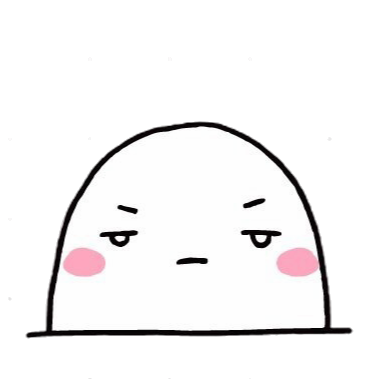
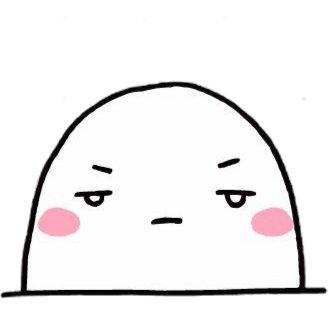
cleaned up code

Changed region(s): [[0.0, 0.2432, 1.0, 0.9119], [0.4559, 0.6383, 0.5775, 0.6991]]

diff --git a/Assets/Runtime/CSharp/EmotionDetector.cs b/Assets/Runtime/CSharp/EmotionDetector.cs
@@ -3,7 +3,8 @@ using System.Collections.Generic;
 
 public class EmotionDetector : MonoBehaviour
 {
-    public UdpReceiver receiver;
+    [SerializeField]
+    private UdpReceiver receiver;
     public string currentEmotion = "neutral";
 
     void Update()
@@ -11,17 +12,15 @@ public class EmotionDetector : MonoBehaviour
         var b = receiver.blendshapes;
         if (b.Count == 0) return;
 
-        // Werte holen (mit Fallback)
-        float Get(string key) => b.ContainsKey(key) ? b[key] : 0f;
+        float smile = BlendshapeUtils.Get(b, "mouthSmileLeft") + BlendshapeUtils.Get(b, "mouthSmileRight");
+        float frown = BlendshapeUtils.Get(b, "mouthFrownLeft") + BlendshapeUtils.Get(b, "mouthFrownRight");
+        float browDown = BlendshapeUtils.Get(b, "browDownLeft") + BlendshapeUtils.Get(b, "browDownRight");
+        float sneer = BlendshapeUtils.Get(b, "noseSneerLeft") + BlendshapeUtils.Get(b, "noseSneerRight");
+        float jaw = BlendshapeUtils.Get(b, "jawOpen");
+        float eyeWide = BlendshapeUtils.Get(b, "eyeWideLeft") + BlendshapeUtils.Get(b, "eyeWideRight");
+        float browInner = BlendshapeUtils.Get(b, "browInnerUp");
+        float stretch = BlendshapeUtils.Get(b, "mouthStretchLeft") + BlendshapeUtils.Get(b, "mouthStretchRight");
 
-        float smile = Get("mouthSmileLeft") + Get("mouthSmileRight");
-        float frown = Get("mouthFrownLeft") + Get("mouthFrownRight");
-        float browDown = Get("browDownLeft") + Get("browDownRight");
-        float sneer = Get("noseSneerLeft") + Get("noseSneerRight");
-        float jaw = Get("jawOpen");
-        float eyeWide = Get("eyeWideLeft") + Get("eyeWideRight");
-        float browInner = Get("browInnerUp");
-        float stretch = Get("mouthStretchLeft") + Get("mouthStretchRight");
 
         // HAPPY
         if (smile > 0.55f && frown < 0.25f)

diff --git a/Assets/Runtime/CSharp/BlinkDetector.cs b/Assets/Runtime/CSharp/BlinkDetector.cs
@@ -2,7 +2,7 @@ using UnityEngine;
 
 public class BlinkDetector : MonoBehaviour
 {
-    
+
     [SerializeField]
     private UdpReceiver receiver;
 
@@ -19,8 +19,8 @@ public class BlinkDetector : MonoBehaviour
         var b = receiver.blendshapes;
         if (b.Count == 0) return;
 
-        float leftBlink = b["eyeBlinkLeft"];
-        float rightBlink = b["eyeBlinkRight"];
+        float leftBlink = BlendshapeUtils.Get(b, "eyeBlinkLeft");
+        float rightBlink = BlendshapeUtils.Get(b, "eyeBlinkRight");
 
         (leftClosed, leftCount) = UpdateBlink(leftBlink, blinkThreshold, leftClosed, leftCount);
         (rightClosed, rightCount) = UpdateBlink(rightBlink, blinkThreshold, rightClosed, rightCount);

diff --git a/Assets/Runtime/CSharp/BlendshapeUtils.cs b/Assets/Runtime/CSharp/BlendshapeUtils.cs
@@ -1,0 +1,13 @@
+using UnityEngine;
+using System.Collections.Generic;
+public static class BlendshapeUtils
+{
+    public static float Get(Dictionary<string, float> b, string key)
+    {
+        float value;
+        if (b.TryGetValue(key, out value))
+            return value;
+
+        return 0f;
+    }
+}
